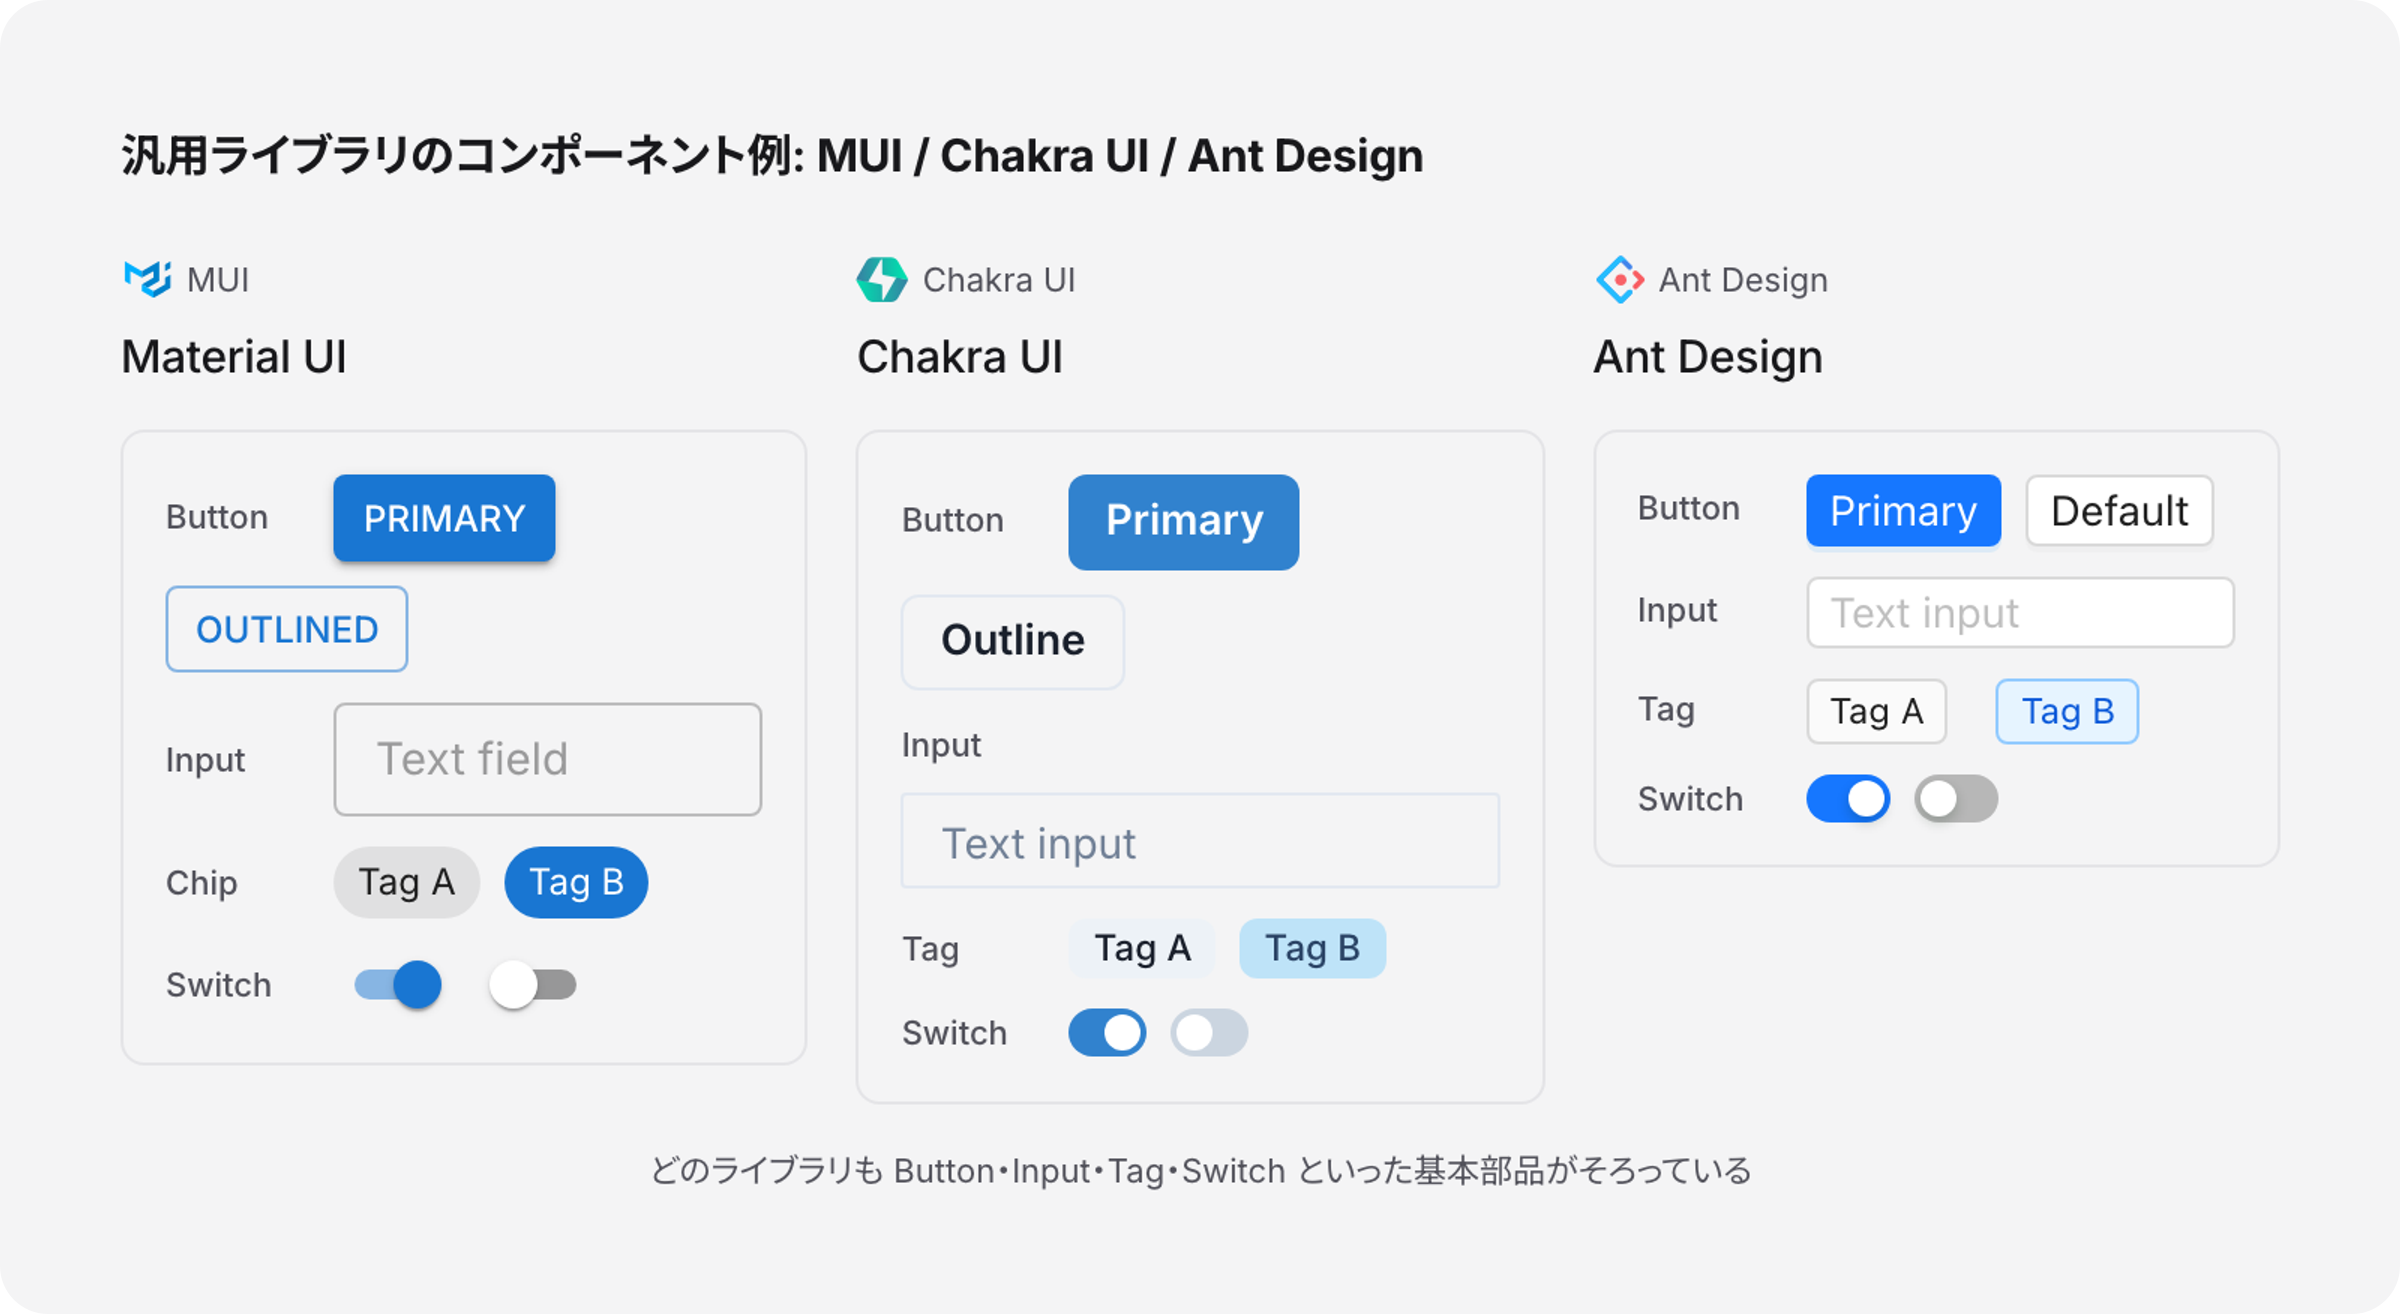
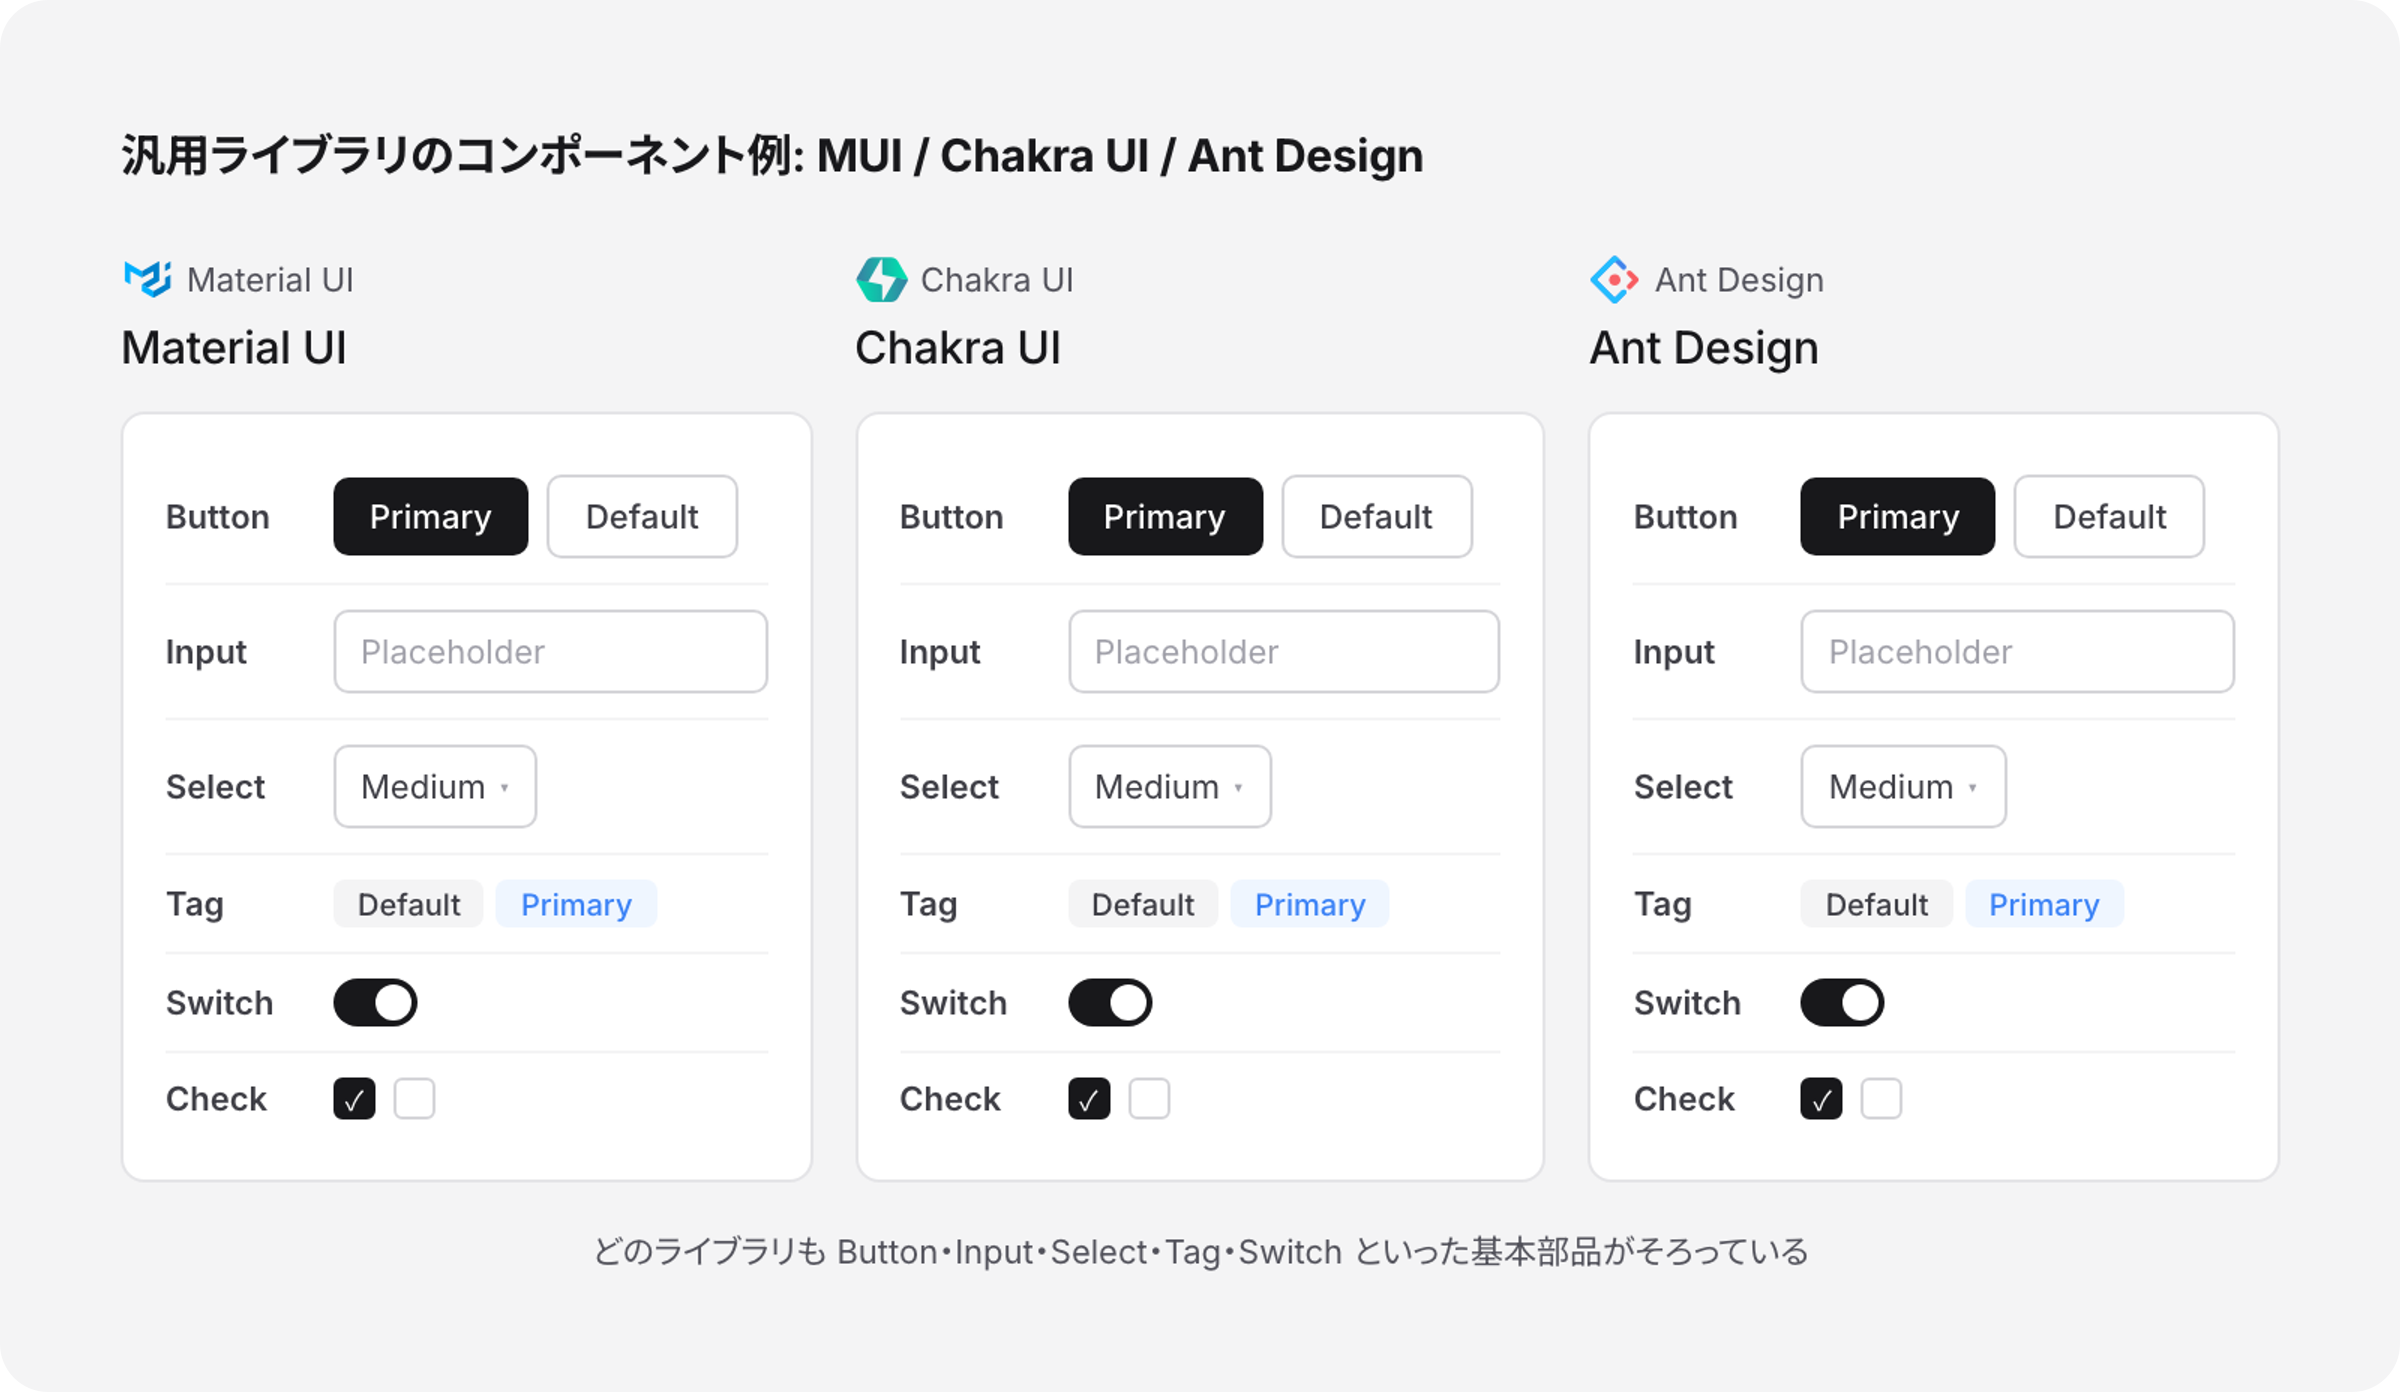
Redesign fig-56: unified mock style for library comparison
実コンポーネントの混在によるスタイル崩れを修正。
統一されたモックコンポーネントで MUI / Chakra UI / Ant Design を比較する形式に変更。

diff --git a/illustrations/src/figures/fig-56-library-component-samples.tsx b/illustrations/src/figures/fig-56-library-component-samples.tsx
@@ -1,17 +1,13 @@
-import { ThemeProvider, createTheme } from "@mui/material/styles";
-import MuiButton from "@mui/material/Button";
-import MuiTextField from "@mui/material/TextField";
-import MuiChip from "@mui/material/Chip";
-import MuiSwitch from "@mui/material/Switch";
-import { Button as AntButton, Input as AntInput, Tag as AntTag, Switch as AntSwitch } from "antd";
-import { ChakraProvider, Button as ChakraButton, Input as ChakraInput, Tag as ChakraTag, Switch as ChakraSwitch } from "@chakra-ui/react";
 import { IllustrationFrame } from "../shared/IllustrationFrame";
 import { LibraryLabel } from "../shared/LibraryLabel";
 import { CONTENT_WIDTH } from "../styles/tokens";
+import type { ServiceIconName } from "../shared/icons";
 
-const muiTheme = createTheme({
-  typography: { fontFamily: '"Inter", "Noto Sans JP", sans-serif', fontSize: 13 },
-});
+/**
+ * MUI / Chakra UI / Ant Design のコンポーネント一覧を
+ * 統一された見た目のモックで並べる。
+ * 各ライブラリが同じ基本部品を提供していることを伝える図。
+ */
 
 const nameStyle = {
   fontSize: 15,
@@ -22,121 +18,235 @@ const nameStyle = {
 } as const;
 
 const panel = {
-  background: "#f4f4f5",
+  background: "#fff",
   borderRadius: 8,
   border: "1px solid #e4e4e7",
-  padding: 14,
+  padding: "12px 14px",
   display: "flex",
   flexDirection: "column" as const,
-  gap: 10,
-};
+  gap: 0,
+} as const;
 
-const row = {
+const rowStyle = {
   display: "flex",
   alignItems: "center" as const,
-  gap: 8,
-  flexWrap: "wrap" as const,
-};
-
-const label = {
-  fontSize: 11,
-  fontWeight: 500,
-  color: "#52525b",
-  minWidth: 48,
+  padding: "8px 0",
+  borderBottom: "1px solid #f4f4f5",
 } as const;
+
+const rowLast = {
+  ...rowStyle,
+  borderBottom: "none",
+} as const;
+
+const compLabel = {
+  fontSize: 11,
+  fontWeight: 600,
+  color: "#3f3f46",
+  width: 56,
+  flexShrink: 0,
+} as const;
+
+const previewArea = {
+  display: "flex",
+  alignItems: "center" as const,
+  gap: 6,
+  flex: 1,
+} as const;
+
+/* ── ミニコンポーネントモック ── */
+
+function MiniButton({ primary }: { primary?: boolean }) {
+  return (
+    <div
+      style={{
+        padding: "4px 12px",
+        borderRadius: 5,
+        background: primary ? "#18181b" : "#fff",
+        color: primary ? "#fff" : "#3f3f46",
+        border: primary ? "none" : "1px solid #d4d4d8",
+        fontSize: 11,
+        fontWeight: 500,
+        lineHeight: "18px",
+      }}
+    >
+      {primary ? "Primary" : "Default"}
+    </div>
+  );
+}
+
+function MiniInput() {
+  return (
+    <div
+      style={{
+        padding: "4px 8px",
+        borderRadius: 5,
+        border: "1px solid #d4d4d8",
+        background: "#fff",
+        fontSize: 11,
+        color: "#a1a1aa",
+        flex: 1,
+        lineHeight: "18px",
+      }}
+    >
+      Placeholder
+    </div>
+  );
+}
+
+function MiniTag() {
+  return (
+    <div style={{ display: "flex", gap: 4 }}>
+      <span
+        style={{
+          padding: "2px 8px",
+          borderRadius: 4,
+          background: "#f4f4f5",
+          fontSize: 10,
+          fontWeight: 500,
+          color: "#3f3f46",
+        }}
+      >
+        Default
+      </span>
+      <span
+        style={{
+          padding: "2px 8px",
+          borderRadius: 4,
+          background: "#eff6ff",
+          fontSize: 10,
+          fontWeight: 500,
+          color: "#3b82f6",
+        }}
+      >
+        Primary
+      </span>
+    </div>
+  );
+}
+
+function MiniSwitch({ on }: { on?: boolean }) {
+  return (
+    <div
+      style={{
+        width: 28,
+        height: 16,
+        borderRadius: 8,
+        background: on ? "#18181b" : "#d4d4d8",
+        padding: 2,
+        display: "flex",
+        justifyContent: on ? "flex-end" : "flex-start",
+      }}
+    >
+      <div style={{ width: 12, height: 12, borderRadius: "50%", background: "#fff" }} />
+    </div>
+  );
+}
+
+function MiniSelect() {
+  return (
+    <div
+      style={{
+        padding: "4px 8px",
+        borderRadius: 5,
+        border: "1px solid #d4d4d8",
+        background: "#fff",
+        fontSize: 11,
+        color: "#3f3f46",
+        display: "inline-flex",
+        alignItems: "center",
+        gap: 4,
+        lineHeight: "18px",
+      }}
+    >
+      Medium <span style={{ fontSize: 9, color: "#a1a1aa" }}>▾</span>
+    </div>
+  );
+}
+
+function MiniCheckbox() {
+  return (
+    <div style={{ display: "flex", gap: 6, alignItems: "center" }}>
+      <div
+        style={{
+          width: 14,
+          height: 14,
+          borderRadius: 3,
+          border: "1.5px solid #18181b",
+          background: "#18181b",
+          display: "flex",
+          alignItems: "center",
+          justifyContent: "center",
+          fontSize: 9,
+          color: "#fff",
+        }}
+      >
+        ✓
+      </div>
+      <div
+        style={{
+          width: 14,
+          height: 14,
+          borderRadius: 3,
+          border: "1.5px solid #d4d4d8",
+          background: "#fff",
+        }}
+      />
+    </div>
+  );
+}
+
+/* ── 列データ ── */
+
+interface LibColumn {
+  icon: ServiceIconName;
+  name: string;
+}
+
+const libraries: LibColumn[] = [
+  { icon: "mui", name: "Material UI" },
+  { icon: "chakra", name: "Chakra UI" },
+  { icon: "antdesign", name: "Ant Design" },
+];
+
+const components: { label: string; render: () => React.ReactNode; last?: boolean }[] = [
+  {
+    label: "Button",
+    render: () => (
+      <>
+        <MiniButton primary /> <MiniButton />
+      </>
+    ),
+  },
+  { label: "Input", render: () => <MiniInput /> },
+  { label: "Select", render: () => <MiniSelect /> },
+  { label: "Tag", render: () => <MiniTag /> },
+  { label: "Switch", render: () => <MiniSwitch on /> },
+  { label: "Check", render: () => <MiniCheckbox />, last: true },
+];
 
 export default function Fig56() {
   return (
-    <ThemeProvider theme={muiTheme}>
-      <IllustrationFrame title="汎用ライブラリのコンポーネント例: MUI / Chakra UI / Ant Design">
-        <div style={{ display: "flex", gap: 16, width: CONTENT_WIDTH }}>
-          {/* MUI */}
-          <div style={{ flex: 1 }}>
-            <LibraryLabel name="MUI" icon="mui" />
-            <div style={nameStyle}>Material UI</div>
+    <IllustrationFrame title="汎用ライブラリのコンポーネント例: MUI / Chakra UI / Ant Design">
+      <div style={{ display: "flex", gap: 14, width: CONTENT_WIDTH }}>
+        {libraries.map((lib) => (
+          <div key={lib.name} style={{ flex: 1 }}>
+            <LibraryLabel name={lib.name} icon={lib.icon} />
+            <div style={nameStyle}>{lib.name}</div>
             <div style={panel}>
-              <div style={row}>
-                <span style={label}>Button</span>
-                <MuiButton variant="contained" size="small">Primary</MuiButton>
-                <MuiButton variant="outlined" size="small">Outlined</MuiButton>
-              </div>
-              <div style={row}>
-                <span style={label}>Input</span>
-                <MuiTextField size="small" placeholder="Text field" variant="outlined" sx={{ flex: 1 }} />
-              </div>
-              <div style={row}>
-                <span style={label}>Chip</span>
-                <MuiChip label="Tag A" size="small" />
-                <MuiChip label="Tag B" size="small" color="primary" />
-              </div>
-              <div style={row}>
-                <span style={label}>Switch</span>
-                <MuiSwitch size="small" defaultChecked />
-                <MuiSwitch size="small" />
-              </div>
+              {components.map((comp) => (
+                <div key={comp.label} style={comp.last ? rowLast : rowStyle}>
+                  <span style={compLabel}>{comp.label}</span>
+                  <div style={previewArea}>{comp.render()}</div>
+                </div>
+              ))}
             </div>
           </div>
-
-          {/* Chakra UI */}
-          <div style={{ flex: 1 }}>
-            <ChakraProvider>
-              <LibraryLabel name="Chakra UI" icon="chakra" />
-              <div style={nameStyle}>Chakra UI</div>
-              <div style={panel}>
-                <div style={row}>
-                  <span style={label}>Button</span>
-                  <ChakraButton size="sm" colorScheme="blue">Primary</ChakraButton>
-                  <ChakraButton size="sm" variant="outline">Outline</ChakraButton>
-                </div>
-                <div style={row}>
-                  <span style={label}>Input</span>
-                  <ChakraInput size="sm" placeholder="Text input" />
-                </div>
-                <div style={row}>
-                  <span style={label}>Tag</span>
-                  <ChakraTag size="sm">Tag A</ChakraTag>
-                  <ChakraTag size="sm" colorScheme="blue">Tag B</ChakraTag>
-                </div>
-                <div style={row}>
-                  <span style={label}>Switch</span>
-                  <ChakraSwitch size="sm" defaultChecked />
-                  <ChakraSwitch size="sm" />
-                </div>
-              </div>
-            </ChakraProvider>
-          </div>
-
-          {/* Ant Design */}
-          <div style={{ flex: 1 }}>
-            <LibraryLabel name="Ant Design" icon="antdesign" />
-            <div style={nameStyle}>Ant Design</div>
-            <div style={panel}>
-              <div style={row}>
-                <span style={label}>Button</span>
-                <AntButton type="primary" size="small">Primary</AntButton>
-                <AntButton size="small">Default</AntButton>
-              </div>
-              <div style={row}>
-                <span style={label}>Input</span>
-                <AntInput size="small" placeholder="Text input" style={{ flex: 1 }} />
-              </div>
-              <div style={row}>
-                <span style={label}>Tag</span>
-                <AntTag>Tag A</AntTag>
-                <AntTag color="blue">Tag B</AntTag>
-              </div>
-              <div style={row}>
-                <span style={label}>Switch</span>
-                <AntSwitch size="small" defaultChecked />
-                <AntSwitch size="small" />
-              </div>
-            </div>
-          </div>
-        </div>
-        <div style={{ fontSize: 11, color: "#52525b", marginTop: 14, textAlign: "center" }}>
-          どのライブラリも Button・Input・Tag・Switch といった基本部品がそろっている
-        </div>
-      </IllustrationFrame>
-    </ThemeProvider>
+        ))}
+      </div>
+      <div style={{ fontSize: 11, color: "#52525b", marginTop: 14, textAlign: "center" }}>
+        どのライブラリも Button・Input・Select・Tag・Switch といった基本部品がそろっている
+      </div>
+    </IllustrationFrame>
   );
 }
